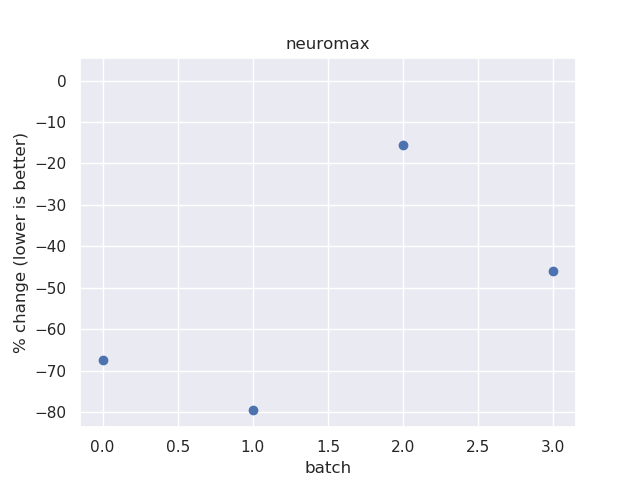
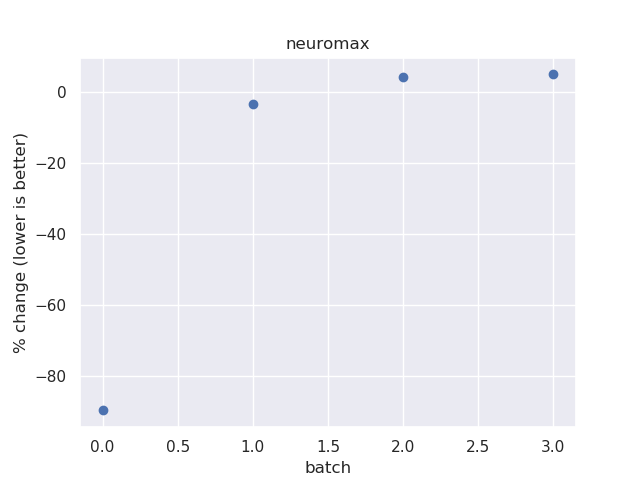
using dense layers

diff --git a/neuromax.py b/neuromax.py
@@ -8,7 +8,7 @@ import time
 import os
 import seaborn as sns
 sns.set()
-os.environ['TF_CPP_MIN_LOG_LEVEL'] = '3'
+os.environ['TF_CPP_MIN_LOG_LEVEL'] = '2'
 import tensorflow as tf
 tf.logging.set_verbosity(tf.logging.ERROR)
 tf.compat.v1.enable_eager_execution()
@@ -19,7 +19,7 @@ best = 0
 # training parameters
 STOP_LOSS_MULTIPLE = 1.04
 PLOT_MODEL = True
-BATCHES_PER_TRIAL = 5
+BATCHES_PER_TRIAL = 2
 MAX_STEPS = 100
 BATCH_SIZE = 2
 # hyperparameters
@@ -27,10 +27,10 @@ d_compressor_kernel_layers = skopt.space.Integer(
                                     2, 4, name='compressor_kernel_layers')
 d_compressor_kernel_units = skopt.space.Integer(
                                     16, 1024, name='compressor_kernel_units')
-d_pair_kernel_layers = skopt.space.Integer(2, 8, name='pair_kernel_layers')
+d_pair_kernel_layers = skopt.space.Integer(2, 4, name='pair_kernel_layers')
 d_pair_kernel_units = skopt.space.Integer(16, 2048, name='pair_kernel_units')
 d_blocks = skopt.space.Integer(1, 8, name='blocks')
-d_block_layers = skopt.space.Integer(1, 10, name='block_layers')
+d_block_layers = skopt.space.Integer(1, 2, name='block_layers')
 d_learning_rate = skopt.space.Real(0.0001, 0.01, name='learning_rate')
 d_decay = skopt.space.Real(0.99, 0.99999, name='decay')
 d_stddev = skopt.space.Real(0.001, 0.1, name='stddev')
@@ -48,8 +48,8 @@ default_hyperparameters = [
     2,  # compressor layers
     512,  # compressor units
     2,  # pair kernel layers
-    2048,  # pair kernel units
-    4,  # blocks
+    1024,  # pair kernel units
+    2,  # blocks
     1,  # block layers
     0.01,  # LR
     0.999,  # decay
@@ -57,29 +57,32 @@ default_hyperparameters = [
 
 
 # begin model
-class NoisyDropConnectDense(L.Dense):
-    def __init__(self, *args, **kwargs):
-        self.stddev = kwargs.pop('stddev')
-        super(NoisyDropConnectDense, self).__init__(*args, **kwargs)
-
-    def call(self, x):
-        kernel = self.kernel + tf.random.truncated_normal(self.kernel.shape,
-                                                          stddev=self.stddev)
-        kernel = B.dropout(kernel, 0.5)
-        bias = self.bias + tf.random.truncated_normal(self.bias.shape,
-                                                      stddev=self.stddev)
-        return self.activation(tf.nn.bias_add(B.dot(x, kernel), bias))
+# class NoisyDropConnectDense(L.Dense):
+#     def __init__(self, *args, **kwargs):
+#         self.stddev = kwargs.pop('stddev')
+#         super(NoisyDropConnectDense, self).__init__(*args, **kwargs)
+#
+#     @tf.function
+#     def call(self, x):
+#         kernel = self.kernel + tf.random.truncated_normal(tf.shape(self.kernel),
+#                                                           stddev=self.stddev)
+#         kernel = tf.nn.dropout(kernel, 0.5)
+#         bias = self.bias + tf.random.truncated_normal(tf.shape(self.bias),
+#                                                       stddev=self.stddev)
+#         return self.activation(tf.nn.bias_add(B.dot(x, kernel), bias))
 
 
 def get_layer(units, stddev):
-    return NoisyDropConnectDense(units, stddev=stddev, activation='tanh')
+    return L.Dense(units, activation='tanh')
 
 
 def get_mlp(features, outputs, layers, units, stddev):
     input = K.Input((features, ))
     output = get_layer(units, stddev)(input)
+    # output = L.Dropout(0.5)(output)
     for layer in range(layers - 1):
         output = get_layer(units, stddev)(output)
+        # output = L.Dropout(0.5)(output)
     output = get_layer(outputs, stddev)(output)
     return K.Model(input, output)
 
@@ -142,6 +145,7 @@ def make_agent(name, d_in, d_out, compressor_kernel_layers,
 
 
 # begin data
+@tf.function
 def parse_protein(example):
     context_features = {'protein': tf.io.FixedLenFeature([], dtype=tf.string)}
     sequence_features = {
@@ -165,7 +169,26 @@ def parse_protein(example):
     features = tf.concat([masses, features], 1)
     masses = tf.concat([masses, masses, masses], 1)
     initial_distances = compute_distances(initial_positions)
-    return initial_positions, positions, features, masses, initial_distances
+    velocities = tf.random.normal(tf.shape(positions))
+    forces = tf.zeros(tf.shape(positions))
+    num_atoms = tf.cast(tf.shape(positions)[0], tf.float32)
+    num_atoms_squared = tf.math.square(num_atoms)
+    return (initial_positions, positions, features, masses, initial_distances,
+            forces, velocities, num_atoms, num_atoms_squared)
+
+
+def attrdict_for(p):
+    return AttrDict({
+        'initial_positions': p[0],
+        'positions': p[1],
+        'features': p[2],
+        'masses': p[3],
+        'initial_distances': p[4],
+        'forces': p[5],
+        'velocities': p[6],
+        'num_atoms': p[7],
+        'num_atoms_squared': p[8]
+    })
 
 
 def read_shards():
@@ -245,35 +268,22 @@ def step_agent_on_protein(agent, p):
     })
 
 
-def attrdict_for(p):
-    # initial_positions, positions, features, masses, initial_distances
-    num_atoms = tf.dtypes.cast(p[0].shape[1], dtype=tf.float32)
-    return AttrDict({
-        'num_atoms': num_atoms,
-        'num_atoms_squared': tf.square(num_atoms),
-        'initial_distances': p[4],
-        'velocities': tf.random.normal(p[1].shape),
-        'forces': tf.zeros_like(p[0]),
-        'initial_positions': p[0],
-        'positions': p[1],
-        'features': p[2],
-        'masses': p[3],
-    })
-
-
 def run_episode(adam, agent, batch):
     initial_batch_losses = [compute_loss(p) for p in batch]
     initial_batch_mean_loss = compute_batch_mean_loss(initial_batch_losses)
     stop = initial_batch_mean_loss * 1.04
-    for step in range(MAX_STEPS):
+    batch_mean_loss = tf.cast(0, tf.float32)
+    for step in tf.range(MAX_STEPS):
         with tf.GradientTape() as tape:
             batch = [step_agent_on_protein(agent, p) for p in batch]
             batch_losses = [compute_loss(p) for p in batch]
-            gradients = tape.gradient(batch_losses, agent.trainable_weights)
-            adam.apply_gradients(zip(gradients, agent.trainable_weights),
-                                 global_step=tf.train.get_or_create_global_step())
+        gradients = tape.gradient(batch_losses, agent.trainable_weights)
+        adam.apply_gradients(zip(gradients, agent.trainable_weights),
+                             global_step=tf.train.get_or_create_global_step())
         batch_mean_loss = compute_batch_mean_loss(batch_losses)
-        print(f'  {step:02d} stop {int(stop)} loss {int(batch_mean_loss)}')
+        tf.print('  ', step,
+                 'stop', tf.math.round(stop),
+                 'loss', tf.math.round(batch_mean_loss))
         if tf.math.greater(batch_mean_loss, stop):
             break
         new_stop = batch_mean_loss * STOP_LOSS_MULTIPLE
@@ -282,8 +292,9 @@ def run_episode(adam, agent, batch):
     change = (batch_mean_loss - initial_batch_mean_loss)
     change /= initial_batch_mean_loss
     change *= 100
-    print('\n', round(change.numpy(), 1), "% change (lower is better)")
-    return agent, change
+    tf.print('\n', tf.math.round(change), "% change (lower is better)")
+    del initial_batch_losses, initial_batch_mean_loss, batch_mean_loss
+    return change
 
 
 @skopt.utils.use_named_args(dimensions=dimensions)
@@ -297,17 +308,15 @@ def trial(compressor_kernel_layers, compressor_kernel_units,
                        compressor_kernel_layers, compressor_kernel_units,
                        pair_kernel_layers, pair_kernel_units,
                        blocks, block_layers, stddev)
-
-    batch_number, total_change, batch, changes = 0, 0, [], []
+    current_agent_episode_graph = tf.function(run_episode)
+    batch_number, batch, changes = 0, [], []
+    total_change = 0
     proteins = read_shards()
     for protein in proteins:
-        if batch_number == BATCHES_PER_TRIAL:
+        if batch_number is BATCHES_PER_TRIAL:
             break
         if len(batch) < BATCH_SIZE:
-            try:
-                batch.append(attrdict_for(protein))
-            except Exception as e:
-                print(e)
+            batch.append(attrdict_for(protein))
         else:
             print('\n  batch', batch_number, 'LR', adam._lr().numpy())
             print(
@@ -319,10 +328,10 @@ def trial(compressor_kernel_layers, compressor_kernel_units,
                 '\n  learning_rate', learning_rate, '\n  decay', decay,
                 '\n  stddev', stddev, '\n')
             try:
-                agent, loss_change = run_episode(adam, agent, batch)
-                total_change += loss_change
-                changes.append(loss_change.numpy().item(0))
-                make_plot(changes)
+                loss_change = current_agent_episode_graph(adam, agent, batch)
+                total_change = total_change + loss_change.numpy().item()
+                # changes.append(loss_change.numpy().item(0))
+                # # make_plot(changes)
             except Exception as e:
                 total_change += 10
                 print(e)
@@ -336,8 +345,9 @@ def trial(compressor_kernel_layers, compressor_kernel_units,
         tf.saved_model.save(agent, "agents/" + str(time.time()) + ".h5")
         best = total_change
 
+    tf.reset_default_graph()
     B.clear_session()
-    del agent
+    del agent, adam
 
     return total_change
 # end training
